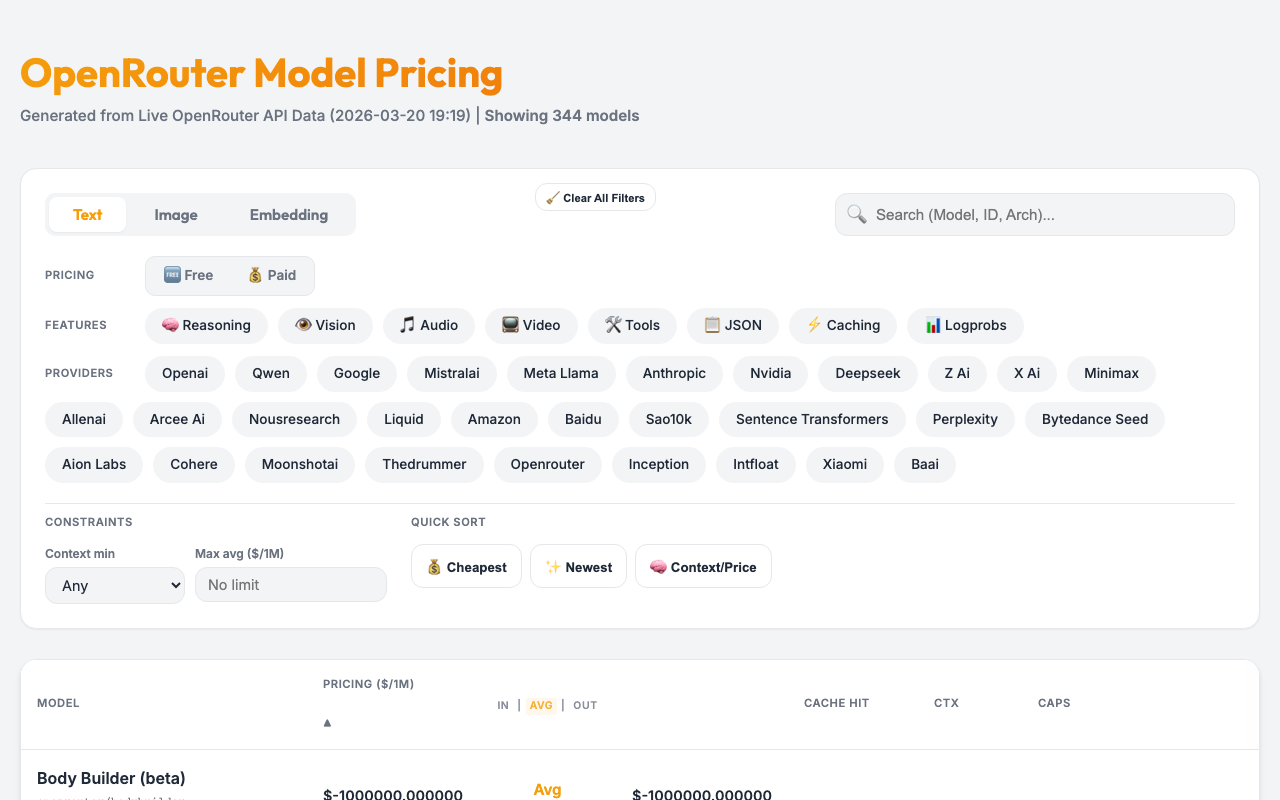
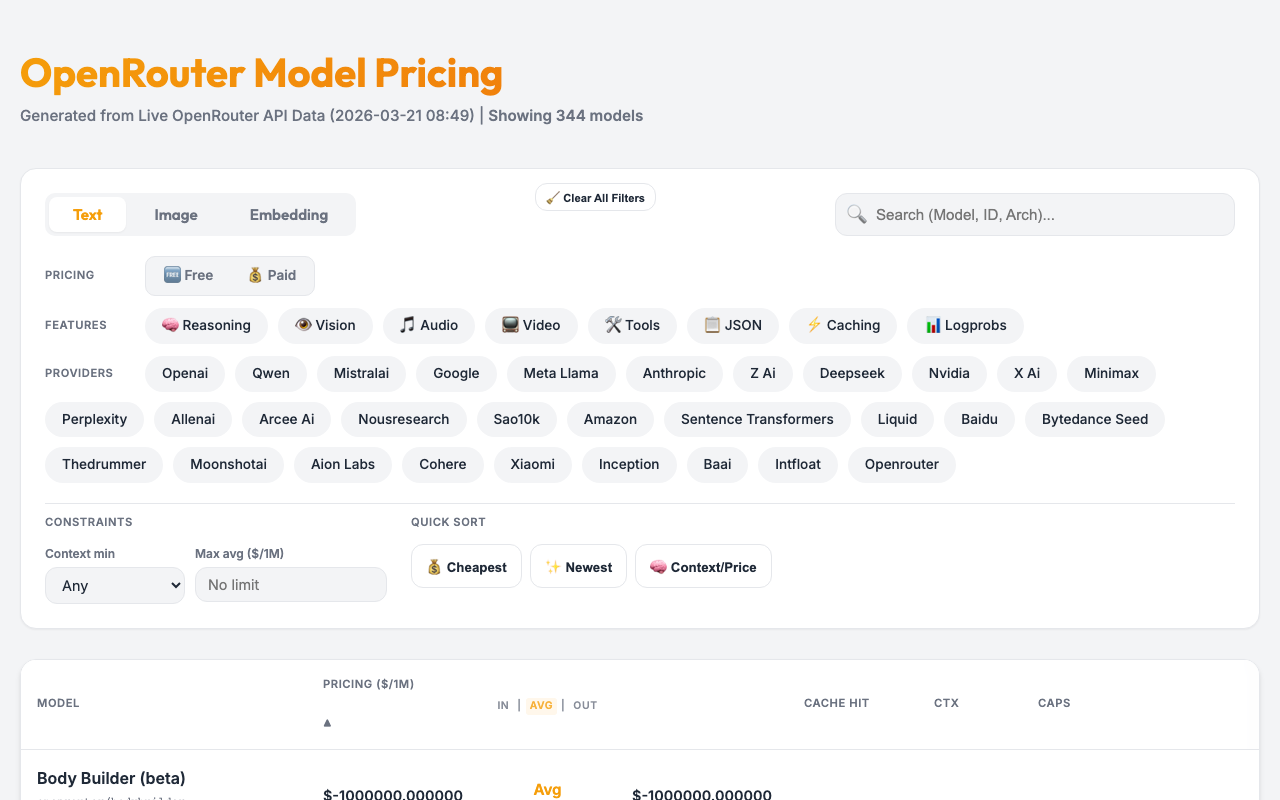
chore: automated pricing update (2026-03-21 08:49:08)
🆕 Added Models (2): perplexity/pplx-embed-v1-0.6b, perplexity/pplx-embed-v1-4b
🔄 Changed Models (13): minimax/minimax-m2.5, mistralai/mistral-small-3.1-24b-instruct, openrouter/auto, qwen/qwen3-8b, qwen/qwen3-vl-235b-a22b-thinking, qwen/qwen3-vl-30b-a3b-instruct, qwen/qwen3-vl-30b-a3b-thinking, qwen/qwen3-vl-32b-instruct, qwen/qwen3.5-122b-a10b, qwen/qwen3.5-27b, qwen/qwen3.5-35b-a3b, qwen/qwen3.5-397b-a17b, z-ai/glm-4.6

diff --git a/docs/index.html b/docs/index.html
@@ -634,7 +634,7 @@
     <div class="container">
         <header>
             <h1>OpenRouter Model Pricing</h1>
-            <div class="meta">Generated from Live OpenRouter API Data (2026-03-20 19:19)</div>
+            <div class="meta">Generated from Live OpenRouter API Data (2026-03-21 08:49)</div>
         </header>
 
         <div class="controls">
@@ -1784,7 +1784,10 @@
       "default_parameters": {
         "temperature": 1,
         "top_p": 0.95,
-        "frequency_penalty": null
+        "top_k": 20,
+        "frequency_penalty": null,
+        "presence_penalty": null,
+        "repetition_penalty": null
       },
       "expiration_date": null
     },
@@ -1843,7 +1846,10 @@
       "default_parameters": {
         "temperature": 0.6,
         "top_p": 0.95,
-        "frequency_penalty": null
+        "top_k": 20,
+        "frequency_penalty": null,
+        "presence_penalty": null,
+        "repetition_penalty": null
       },
       "expiration_date": null
     },
@@ -1902,7 +1908,10 @@
       "default_parameters": {
         "temperature": 0.6,
         "top_p": 0.95,
-        "frequency_penalty": null
+        "top_k": 20,
+        "frequency_penalty": null,
+        "presence_penalty": null,
+        "repetition_penalty": null
       },
       "expiration_date": null
     },
@@ -2382,7 +2391,10 @@
       "default_parameters": {
         "temperature": 0.6,
         "top_p": 0.95,
-        "frequency_penalty": null
+        "top_k": 20,
+        "frequency_penalty": null,
+        "presence_penalty": null,
+        "repetition_penalty": null
       },
       "expiration_date": null
     },
@@ -2456,11 +2468,12 @@
       },
       "pricing": {
         "prompt": "0.0000002",
-        "completion": "0.0000012"
+        "completion": "0.00000117",
+        "input_cache_read": "0.0000001"
       },
       "top_provider": {
         "context_length": 196608,
-        "max_completion_tokens": 196608,
+        "max_completion_tokens": 65536,
         "is_moderated": false
       },
       "per_request_limits": null,
@@ -6136,9 +6149,12 @@
         "top_p"
       ],
       "default_parameters": {
-        "temperature": null,
-        "top_p": null,
-        "frequency_penalty": null
+        "temperature": 0.7,
+        "top_p": 0.8,
+        "top_k": 20,
+        "frequency_penalty": null,
+        "presence_penalty": null,
+        "repetition_penalty": 1
       },
       "expiration_date": null
     },
@@ -6703,7 +6719,11 @@
       ],
       "default_parameters": {
         "temperature": 0.8,
-        "top_p": 0.95
+        "top_p": 0.95,
+        "top_k": 20,
+        "frequency_penalty": null,
+        "presence_penalty": null,
+        "repetition_penalty": 1
       },
       "expiration_date": null
     },
@@ -6756,7 +6776,10 @@
       "default_parameters": {
         "temperature": 0.7,
         "top_p": 0.8,
-        "frequency_penalty": null
+        "top_k": 20,
+        "frequency_penalty": null,
+        "presence_penalty": null,
+        "repetition_penalty": 1
       },
       "expiration_date": null
     },
@@ -6812,7 +6835,7 @@
     {
       "id": "z-ai/glm-4.6",
       "canonical_slug": "z-ai/glm-4.6",
-      "hugging_face_id": "",
+      "hugging_face_id": "zai-org/GLM-4.6",
       "name": "Z.ai: GLM 4.6",
       "created": 1759235576,
       "description": "Compared with GLM-4.5, this generation brings several key improvements:\n\nLonger context window: The context window has been expanded from 128K to 200K tokens, enabling the model to handle more complex agentic tasks.\nSuperior coding performance: The model achieves higher scores on code benchmarks and demonstrates better real-world performance in applications such as Claude Code\u3001Cline\u3001Roo Code and Kilo Code, including improvements in generating visually polished front-end pages.\nAdvanced reasoning: GLM-4.6 shows a clear improvement in reasoning performance and supports tool use during inference, leading to stronger overall capability.\nMore capable agents: GLM-4.6 exhibits stronger performance in tool using and search-based agents, and integrates more effectively within agent frameworks.\nRefined writing: Better aligns with human preferences in style and readability, and performs more naturally in role-playing scenarios.",
@@ -6860,7 +6883,10 @@
       "default_parameters": {
         "temperature": 0.6,
         "top_p": null,
-        "frequency_penalty": null
+        "top_k": null,
+        "frequency_penalty": null,
+        "presence_penalty": null,
+        "repetition_penalty": null
       },
       "expiration_date": null
     },
@@ -7173,7 +7199,10 @@
       "default_parameters": {
         "temperature": 0.8,
         "top_p": 0.95,
-        "frequency_penalty": null
+        "top_k": 20,
+        "frequency_penalty": null,
+        "presence_penalty": null,
+        "repetition_penalty": 1
       },
       "expiration_date": null
     },
@@ -11511,9 +11540,12 @@
         "top_p"
       ],
       "default_parameters": {
-        "temperature": null,
-        "top_p": null,
-        "frequency_penalty": null
+        "temperature": 0.6,
+        "top_p": 0.95,
+        "top_k": 20,
+        "frequency_penalty": null,
+        "presence_penalty": null,
+        "repetition_penalty": null
       },
       "expiration_date": null
     },
@@ -12470,7 +12502,7 @@
       "name": "Mistral: Mistral Small 3.1 24B",
       "created": 1742238937,
       "description": "Mistral Small 3.1 24B Instruct is an upgraded variant of Mistral Small 3 (2501), featuring 24 billion parameters with advanced multimodal capabilities. It provides state-of-the-art performance in text-based reasoning and vision tasks, including image analysis, programming, mathematical reasoning, and multilingual support across dozens of languages. Equipped with an extensive 128k token context window and optimized for efficient local inference, it supports use cases such as conversational agents, function calling, long-document comprehension, and privacy-sensitive deployments. The updated version is [Mistral Small 3.2](mistralai/mistral-small-3.2-24b-instruct)",
-      "context_length": 128000,
+      "context_length": 131072,
       "architecture": {
         "modality": "text+image->text",
         "input_modalities": [
@@ -12484,12 +12516,13 @@
         "instruct_type": null
       },
       "pricing": {
-        "prompt": "0.00000035",
-        "completion": "0.00000056"
+        "prompt": "0.00000003",
+        "completion": "0.00000011",
+        "input_cache_read": "0.000000015"
       },
       "top_provider": {
-        "context_length": 128000,
-        "max_completion_tokens": null,
+        "context_length": 131072,
+        "max_completion_tokens": 131072,
         "is_moderated": false
       },
       "per_request_limits": null,
@@ -12498,7 +12531,10 @@
         "max_tokens",
         "presence_penalty",
         "repetition_penalty",
+        "response_format",
         "seed",
+        "stop",
+        "structured_outputs",
         "temperature",
         "top_k",
         "top_p"
@@ -17910,7 +17946,7 @@
       "hugging_face_id": null,
       "name": "Auto Router",
       "created": 1699401600,
-      "description": "Your prompt will be processed by a meta-model and routed to one of dozens of models (see below), optimizing for the best possible output.\n\nTo see which model was used, visit [Activity](/activity), or read the `model` attribute of the response. Your response will be priced at the same rate as the routed model.\n\nLearn more, including how to customize the models for routing, in our [docs](/docs/guides/routing/routers/auto-router).\n\nRequests will be routed to the following models:\n- [anthropic/claude-haiku-4.5](/anthropic/claude-haiku-4.5)\n- [anthropic/claude-opus-4.6](/anthropic/claude-opus-4.6)\n- [anthropic/claude-sonnet-4.5](/anthropic/claude-sonnet-4.5)\n- [anthropic/claude-sonnet-4.6](/anthropic/claude-sonnet-4.6)\n- [deepseek/deepseek-r1](/deepseek/deepseek-r1)\n- [google/gemini-2.5-flash-lite](/google/gemini-2.5-flash-lite)\n- [google/gemini-3-flash-preview](/google/gemini-3-flash-preview)\n- [google/gemini-3-pro-preview](/google/gemini-3-pro-preview)\n- [google/gemini-3.1-pro-preview](/google/gemini-3.1-pro-preview)\n- [meta-llama/llama-3.3-70b-instruct](/meta-llama/llama-3.3-70b-instruct)\n- [minimax/minimax-m2.5](/minimax/minimax-m2.5)\n- [mistralai/codestral-2508](/mistralai/codestral-2508)\n- [mistralai/mistral-large](/mistralai/mistral-large)\n- [mistralai/mistral-medium-3.1](/mistralai/mistral-medium-3.1)\n- [mistralai/mistral-small-3.2-24b-instruct-2506](/mistralai/mistral-small-3.2-24b-instruct-2506)\n- [moonshotai/kimi-k2-thinking](/moonshotai/kimi-k2-thinking)\n- [moonshotai/kimi-k2.5](/moonshotai/kimi-k2.5)\n- [openai/gpt-5](/openai/gpt-5)\n- [openai/gpt-5-mini](/openai/gpt-5-mini)\n- [openai/gpt-5-nano](/openai/gpt-5-nano)\n- [openai/gpt-5.1](/openai/gpt-5.1)\n- [openai/gpt-5.2](/openai/gpt-5.2)\n- [openai/gpt-5.2-pro](/openai/gpt-5.2-pro)\n- [openai/gpt-oss-120b](/openai/gpt-oss-120b)\n- [perplexity/sonar](/perplexity/sonar)\n- [qwen/qwen3-235b-a22b](/qwen/qwen3-235b-a22b)\n- [x-ai/grok-3](/x-ai/grok-3)\n- [x-ai/grok-3-mini](/x-ai/grok-3-mini)\n- [x-ai/grok-4](/x-ai/grok-4)\n- [z-ai/glm-5](/z-ai/glm-5)",
+      "description": "Your prompt will be processed by a meta-model and routed to one of dozens of models (see below), optimizing for the best possible output.\n\nTo see which model was used, visit [Activity](/activity), or read the `model` attribute of the response. Your response will be priced at the same rate as the routed model.\n\nLearn more, including how to customize the models for routing, in our [docs](/docs/guides/routing/routers/auto-router).\n\nRequests will be routed to the following models:\n- [anthropic/claude-haiku-4.5](/anthropic/claude-haiku-4.5)\n- [anthropic/claude-opus-4.6](/anthropic/claude-opus-4.6)\n- [anthropic/claude-sonnet-4.5](/anthropic/claude-sonnet-4.5)\n- [anthropic/claude-sonnet-4.6](/anthropic/claude-sonnet-4.6)\n- [deepseek/deepseek-r1](/deepseek/deepseek-r1)\n- [google/gemini-2.5-flash-lite](/google/gemini-2.5-flash-lite)\n- [google/gemini-3-flash-preview](/google/gemini-3-flash-preview)\n- [google/gemini-3-pro-preview](/google/gemini-3-pro-preview)\n- [google/gemini-3.1-pro-preview](/google/gemini-3.1-pro-preview)\n- [meta-llama/llama-3.3-70b-instruct](/meta-llama/llama-3.3-70b-instruct)\n- [minimax/minimax-m2.5](/minimax/minimax-m2.5)\n- [mistralai/codestral-2508](/mistralai/codestral-2508)\n- [mistralai/mistral-7b-instruct-v0.1](/mistralai/mistral-7b-instruct-v0.1)\n- [mistralai/mistral-large](/mistralai/mistral-large)\n- [mistralai/mistral-medium-3.1](/mistralai/mistral-medium-3.1)\n- [mistralai/mistral-small-3.2-24b-instruct-2506](/mistralai/mistral-small-3.2-24b-instruct-2506)\n- [moonshotai/kimi-k2-thinking](/moonshotai/kimi-k2-thinking)\n- [moonshotai/kimi-k2.5](/moonshotai/kimi-k2.5)\n- [openai/gpt-5](/openai/gpt-5)\n- [openai/gpt-5-mini](/openai/gpt-5-mini)\n- [openai/gpt-5-nano](/openai/gpt-5-nano)\n- [openai/gpt-5.1](/openai/gpt-5.1)\n- [openai/gpt-5.2](/openai/gpt-5.2)\n- [openai/gpt-5.2-pro](/openai/gpt-5.2-pro)\n- [openai/gpt-5.3-chat](/openai/gpt-5.3-chat)\n- [openai/gpt-oss-120b](/openai/gpt-oss-120b)\n- [perplexity/sonar](/perplexity/sonar)\n- [qwen/qwen3-235b-a22b](/qwen/qwen3-235b-a22b)\n- [x-ai/grok-3](/x-ai/grok-3)\n- [x-ai/grok-3-mini](/x-ai/grok-3-mini)\n- [x-ai/grok-4](/x-ai/grok-4)\n- [x-ai/grok-4.1-fast](/x-ai/grok-4.1-fast)\n- [z-ai/glm-5](/z-ai/glm-5)",
       "context_length": 2000000,
       "architecture": {
         "modality": "text+image+file+audio+video->text+image",
@@ -17971,6 +18007,110 @@
   ],
   "video": [],
   "embedding": [
+    {
+      "id": "perplexity/pplx-embed-v1-4b",
+      "canonical_slug": "perplexity/pplx-embed-v1-4B",
+      "hugging_face_id": "",
+      "name": "Perplexity: Embed V1 4B",
+      "created": 1773625372,
+      "description": "pplx-embed-v1 -4B is one of Perplexity's state-of-the-art text embedding models built for real-world, web-scale retrieval. pplx-embed-v1 is optimized for standard dense text retrieval with the 4B parameter model maximizing retrieval quality.",
+      "context_length": 32000,
+      "architecture": {
+        "modality": "text->embeddings",
+        "input_modalities": [
+          "text"
+        ],
+        "output_modalities": [
+          "embeddings"
+        ],
+        "tokenizer": "Other",
+        "instruct_type": null
+      },
+      "pricing": {
+        "prompt": "0.00000003",
+        "completion": "0",
+        "request": "0",
+        "image": "0",
+        "web_search": "0",
+        "internal_reasoning": "0"
+      },
+      "top_provider": {
+        "context_length": 32000,
+        "max_completion_tokens": null,
+        "is_moderated": false
+      },
+      "per_request_limits": null,
+      "supported_parameters": [
+        "frequency_penalty",
+        "max_tokens",
+        "presence_penalty",
+        "temperature",
+        "top_k",
+        "top_p",
+        "web_search_options"
+      ],
+      "default_parameters": {
+        "temperature": null,
+        "top_p": null,
+        "top_k": null,
+        "frequency_penalty": null,
+        "presence_penalty": null,
+        "repetition_penalty": null
+      },
+      "expiration_date": null
+    },
+    {
+      "id": "perplexity/pplx-embed-v1-0.6b",
+      "canonical_slug": "perplexity/pplx-embed-v1-0.6B",
+      "hugging_face_id": "",
+      "name": "Perplexity: Embed V1 0.6B",
+      "created": 1773624868,
+      "description": "pplx-embed-v1-0.6B is one of Perplexity's state-of-the-art text embedding models built for real-world, web-scale retrieval. pplx-embed-v1 is optimized for standard dense text retrieval with the 0.6B parameter model targeting lightweight, low-latency embedding generation.",
+      "context_length": 32000,
+      "architecture": {
+        "modality": "text->embeddings",
+        "input_modalities": [
+          "text"
+        ],
+        "output_modalities": [
+          "embeddings"
+        ],
+        "tokenizer": "Other",
+        "instruct_type": null
+      },
+      "pricing": {
+        "prompt": "0.000000004",
+        "completion": "0",
+        "request": "0",
+        "image": "0",
+        "web_search": "0",
+        "internal_reasoning": "0"
+      },
+      "top_provider": {
+        "context_length": 32000,
+        "max_completion_tokens": null,
+        "is_moderated": false
+      },
+      "per_request_limits": null,
+      "supported_parameters": [
+        "frequency_penalty",
+        "max_tokens",
+        "presence_penalty",
+        "temperature",
+        "top_k",
+        "top_p",
+        "web_search_options"
+      ],
+      "default_parameters": {
+        "temperature": null,
+        "top_p": null,
+        "top_k": null,
+        "frequency_penalty": null,
+        "presence_penalty": null,
+        "repetition_penalty": null
+      },
+      "expiration_date": null
+    },
     {
       "id": "nvidia/llama-nemotron-embed-vl-1b-v2:free",
       "canonical_slug": "nvidia/llama-nemotron-embed-vl-1b-v2-20260224",
@@ -19054,7 +19194,7 @@
   ],
   "other": []
 };
-        window.providerOptions = ['openai', 'qwen', 'google', 'mistralai', 'meta-llama', 'anthropic', 'nvidia', 'deepseek', 'z-ai', 'x-ai', 'minimax', 'allenai', 'arcee-ai', 'nousresearch', 'liquid', 'amazon', 'baidu', 'sao10k', 'sentence-transformers', 'perplexity', 'bytedance-seed', 'aion-labs', 'cohere', 'moonshotai', 'thedrummer', 'openrouter', 'inception', 'intfloat', 'xiaomi', 'baai', 'inflection', 'morph', 'relace', 'microsoft', 'stepfun', 'thenlper', 'kwaipilot', 'meituan', 'upstage', 'switchpoint', 'undi95', 'cognitivecomputations', 'alpindale', 'mancer', 'essentialai', 'nex-agi', 'anthracite-org', 'writer', 'tencent', 'bytedance', 'eleutherai', 'alfredpros', 'prime-intellect', 'tngtech', 'ai21', 'deepcogito', 'gryphe', 'ibm-granite', 'alibaba'];
+        window.providerOptions = ['openai', 'qwen', 'mistralai', 'google', 'meta-llama', 'anthropic', 'z-ai', 'deepseek', 'nvidia', 'x-ai', 'minimax', 'perplexity', 'allenai', 'arcee-ai', 'nousresearch', 'sao10k', 'amazon', 'sentence-transformers', 'liquid', 'baidu', 'bytedance-seed', 'thedrummer', 'moonshotai', 'aion-labs', 'cohere', 'xiaomi', 'inception', 'baai', 'intfloat', 'openrouter', 'microsoft', 'morph', 'relace', 'stepfun', 'inflection', 'thenlper', 'writer', 'prime-intellect', 'meituan', 'switchpoint', 'bytedance', 'essentialai', 'ibm-granite', 'undi95', 'upstage', 'nex-agi', 'anthracite-org', 'mancer', 'cognitivecomputations', 'alibaba', 'gryphe', 'kwaipilot', 'deepcogito', 'alfredpros', 'eleutherai', 'tngtech', 'alpindale', 'ai21', 'tencent'];
         let currentTab = 'text';
         let sortKey = 'price_avg';
         let sortAsc = true;
